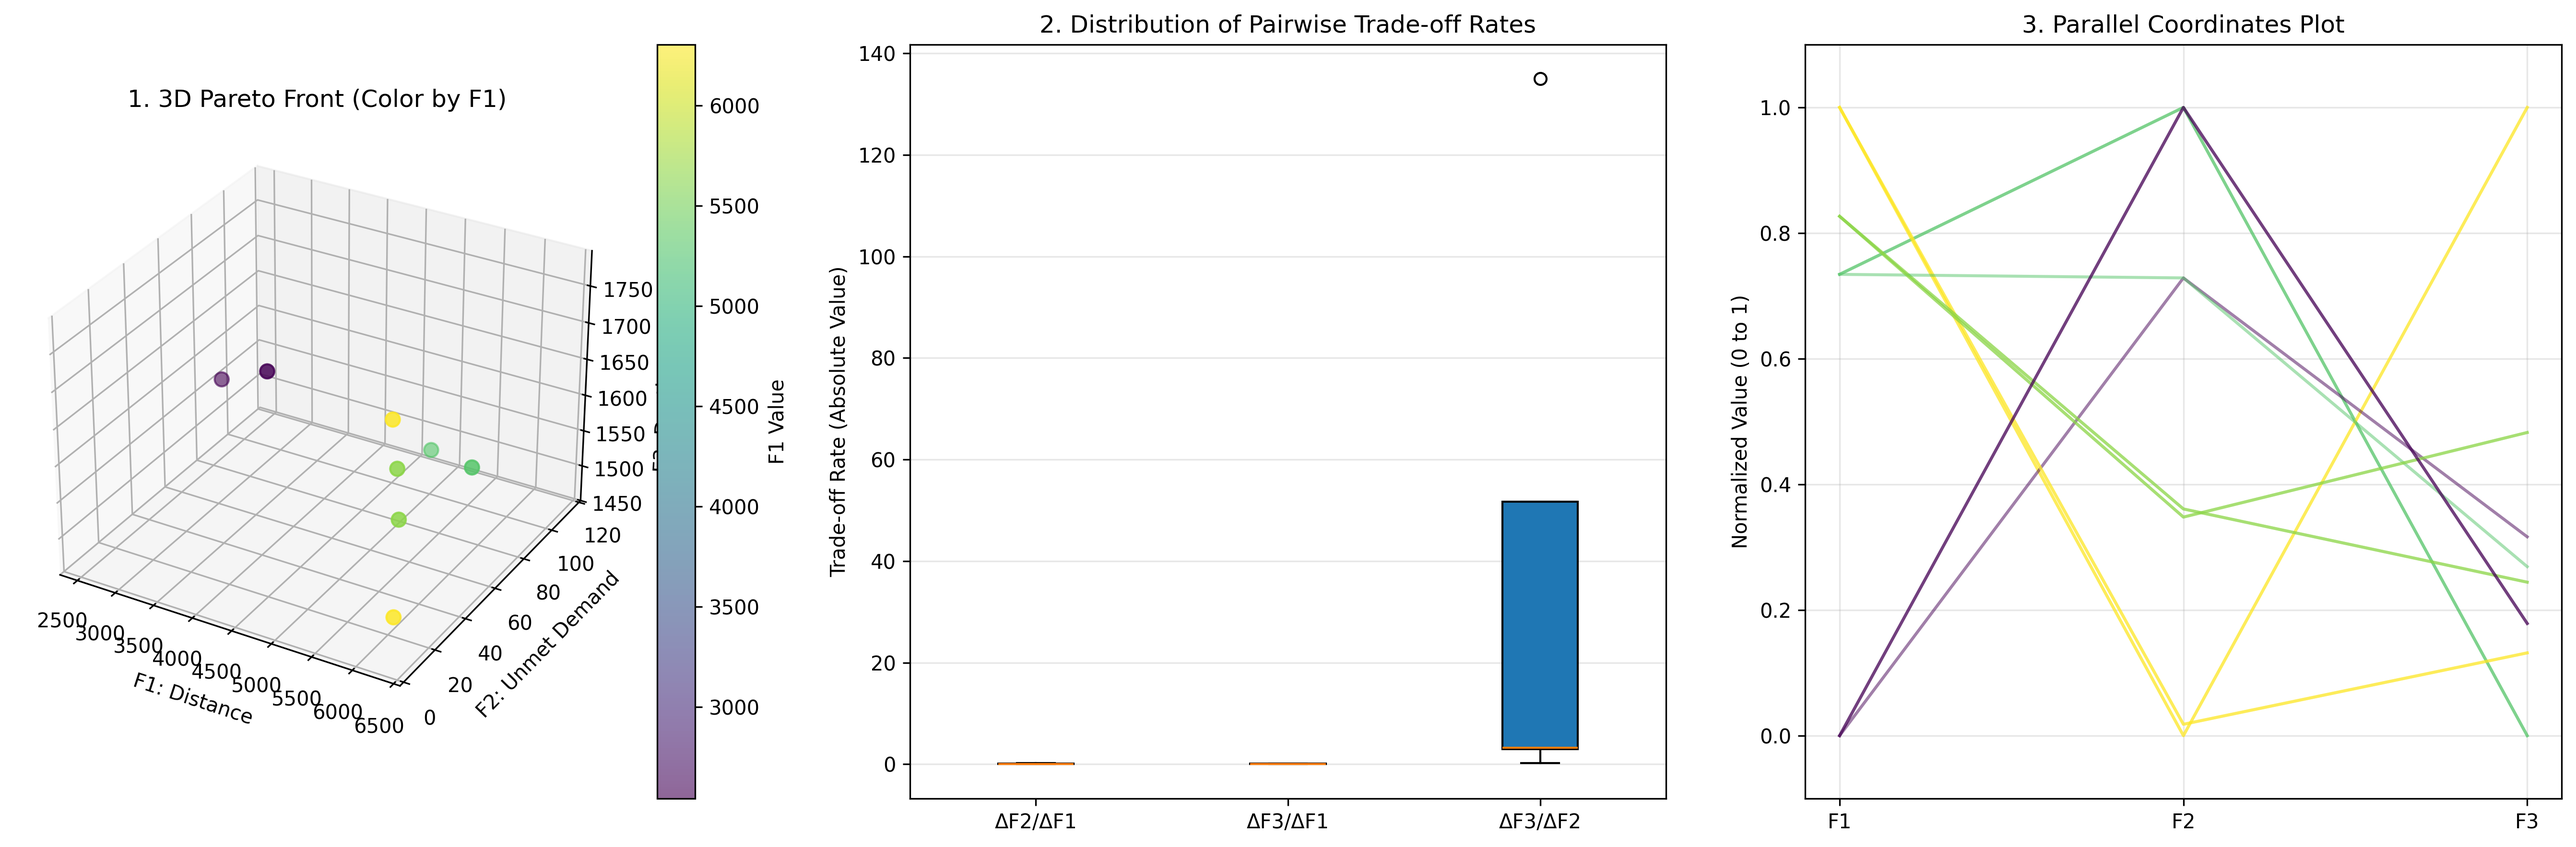
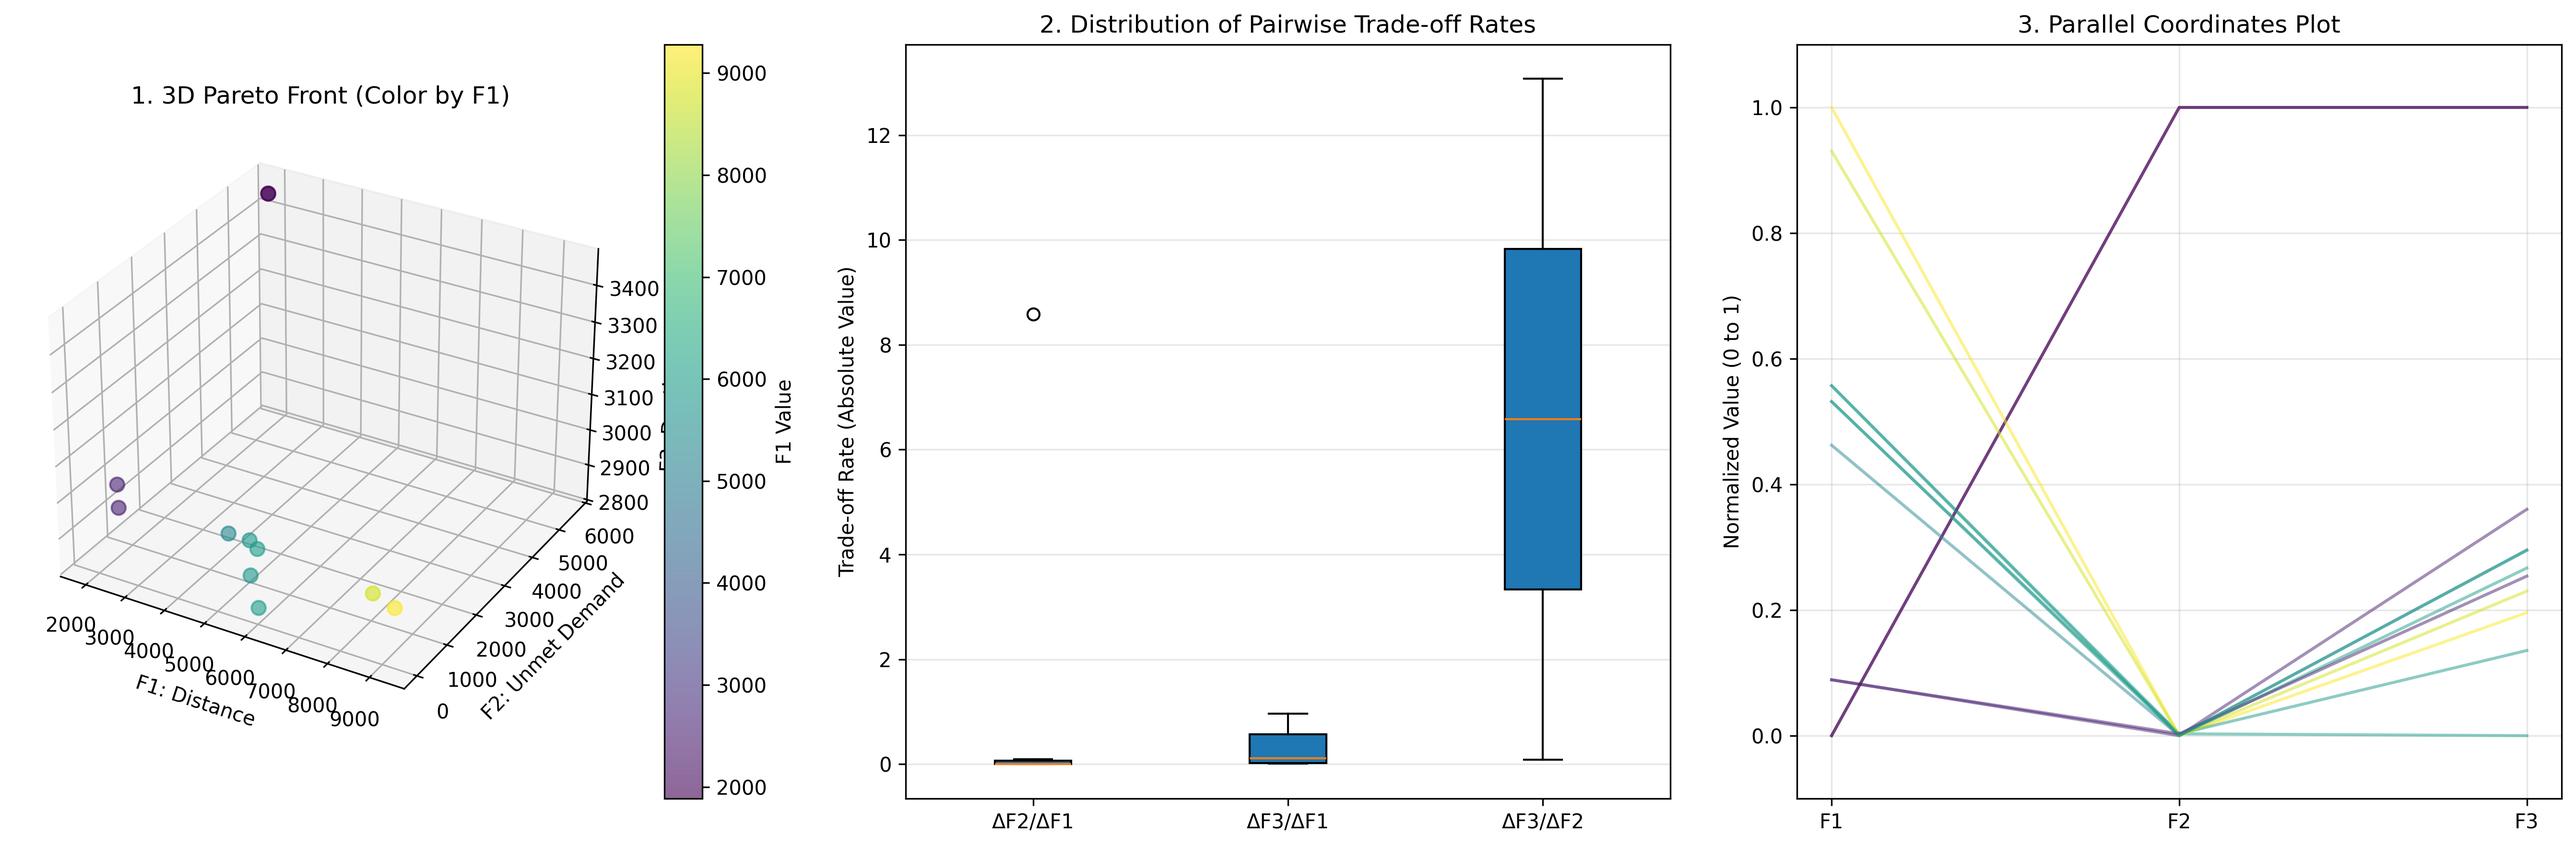
NSGA-II: adding diversity metric

diff --git a/Python_Codes/NSGA_II_HSC/convergence_metrics.py b/Python_Codes/NSGA_II_HSC/convergence_metrics.py
@@ -12,9 +12,11 @@ class ConvergenceMetrics:
         self.normalized_hypervolume = []
         self.normalized_spacing = []
         self.normalized_spread = []
+        self.normalized_diversity = []
         self.hypervolume_history = []
         self.spacing_history = []
         self.spread_history = []
+        self.diversity_history = []  # Diversity metric
         self.gd_history = []  # Generational Distance
         self.igd_history = []  # Inverted Generational Distance
         self.n_pareto_history = []
@@ -177,6 +179,45 @@ class ConvergenceMetrics:
 
         return numerator / denominator
     
+    def diversity(self, pareto_front):
+        """
+        محاسبه Diversity Metric
+        سنجش تنوع و پراکندگی جوابها در فضای اهداف
+        مقدار بیشتر = تنوع بیشتر
+        
+        Parameters:
+        -----------
+        pareto_front: np.array of shape (n_solutions, n_objectives)
+        """
+        if len(pareto_front) <= 1:
+            return 0.0
+        
+        n_solutions, n_objectives = pareto_front.shape
+        
+        # نرمالسازی اهداف به [0, 1]
+        min_vals = np.min(pareto_front, axis=0)
+        max_vals = np.max(pareto_front, axis=0)
+        
+        # جلوگیری از تقسیم بر صفر
+        ranges = max_vals - min_vals
+        ranges[ranges == 0] = 1.0
+        
+        normalized_front = (pareto_front - min_vals) / ranges
+        
+        # محاسبه فاصله اقلیدسی بین تمام جفت نقاط
+        distances = pdist(normalized_front, metric='euclidean')
+        
+        # میانگین فاصلهها به عنوان شاخص تنوع
+        diversity_metric = np.mean(distances)
+        
+        # تنوع بر اساس انحراف معیار در هر بعد
+        std_diversity = np.mean(np.std(normalized_front, axis=0))
+        
+        # ترکیب دو معیار
+        combined_diversity = (diversity_metric + std_diversity) / 2.0
+        
+        return combined_diversity
+    
     def generational_distance(self, pareto_front, true_pareto_front):
         """
         محاسبه Generational Distance (GD)
@@ -223,7 +264,7 @@ class ConvergenceMetrics:
             pareto_front_list = [ind['cost'] for ind in p]
             max_cost.append(np.max(pareto_front_list, axis=0))
         refrence_point = np.max(max_cost, axis=0) * 1.1
-        hypervolume_history, spacing_history, spread_history = [], [], []
+        hypervolume_history, spacing_history, spread_history, diversity_history = [], [], [], []
         for pareto_pop in pareto_pop_list:
             """
             بهروزرسانی تمام شاخصها در هر تکرار
@@ -244,10 +285,12 @@ class ConvergenceMetrics:
             hv = self.hypervolume(pareto_front, refrence_point)
             sp = self.spacing(pareto_front)
             spr = self.spread(pareto_front)
+            div = self.diversity(pareto_front)
             
             hypervolume_history.append(hv)
             spacing_history.append(sp)
             spread_history.append(spr)
+            diversity_history.append(div)
             self.n_pareto_history.append(len(pareto_pop))
             
             # میانگین و انحراف معیار اهداف
@@ -267,6 +310,7 @@ class ConvergenceMetrics:
         self.normalized_hypervolume = self.normalize_list(hypervolume_history)
         self.normalized_spacing = self.normalize_list(spacing_history)
         self.normalized_spread = self.normalize_list(spread_history)
+        self.normalized_diversity = self.normalize_list(diversity_history)
     def normalize_list(self, data_list):
         """لیست ورودی را با استفاده از روش Min-Max به [0, 1] نرمال می کند."""
         data_array = np.array(data_list)
@@ -347,12 +391,20 @@ class ConvergenceMetrics:
         ax = axes[3, 0]
         std_objectives = np.array(self.std_objectives_history)
         for i in range(std_objectives.shape[1]):
-            ax.plot(iterations, std_objectives[:, i], linewidth=1, 
+            ax.plot(iterations, std_objectives[:, i], linewidth=1,
                    marker='s', markersize=3, label=f'F{i+1}')
         ax.set_xlabel('Iteration', fontsize=11)
         ax.set_ylabel('Std of Objective Value', fontsize=11)
         # ax.set_title('Standard Deviation of Objectives\n(انحراف معیار توابع هدف)', fontsize=12, fontweight='bold')
         ax.legend()
+        ax.grid(True, alpha=0.3)
+        
+        # 8. Diversity
+        ax = axes[3, 1]
+        ax.plot(iterations, self.normalized_diversity, 'c-', linewidth=1, marker='*', markersize=4)
+        ax.set_xlabel('Iteration', fontsize=11)
+        ax.set_ylabel('Diversity', fontsize=11)
+        # ax.set_title('Diversity Metric\n(بیشتر = تنوع بیشتر)', fontsize=12, fontweight='bold')
         ax.grid(True, alpha=0.3)
         
         plt.tight_layout()
@@ -409,6 +461,12 @@ class ConvergenceMetrics:
             print(f"   Initial: {self.spread_history[0]:.6f}")
             print(f"   Final:   {self.spread_history[-1]:.6f}")
             print(f"   Improvement: {((self.spread_history[0] - self.spread_history[-1]) / self.spread_history[0] * 100):.2f}%")
+        
+        if len(self.diversity_history) > 0:
+            print(f"\n Diversity:")
+            print(f"   Initial: {self.diversity_history[0]:.6f}")
+            print(f"   Final:   {self.diversity_history[-1]:.6f}")
+            print(f"   Improvement: {((self.diversity_history[-1] - self.diversity_history[0]) / self.diversity_history[0] * 100):.2f}%")
         
         if len(self.n_pareto_history) > 0:
             print(f"\n🎯 Pareto Front Size:")

diff --git a/Python_Codes/NSGA_II_HSC/main.py b/Python_Codes/NSGA_II_HSC/main.py
@@ -715,5 +715,5 @@ class Main():
             # for i, (active, allocated) in enumerate(zip(chromosome[4], chromosome[7])):
             #     if active:
             #         print(f"  Temp Medical {i+1}: {allocated} patients")
-# m = Main()
-# m.main()
+m = Main()
+m.main()
